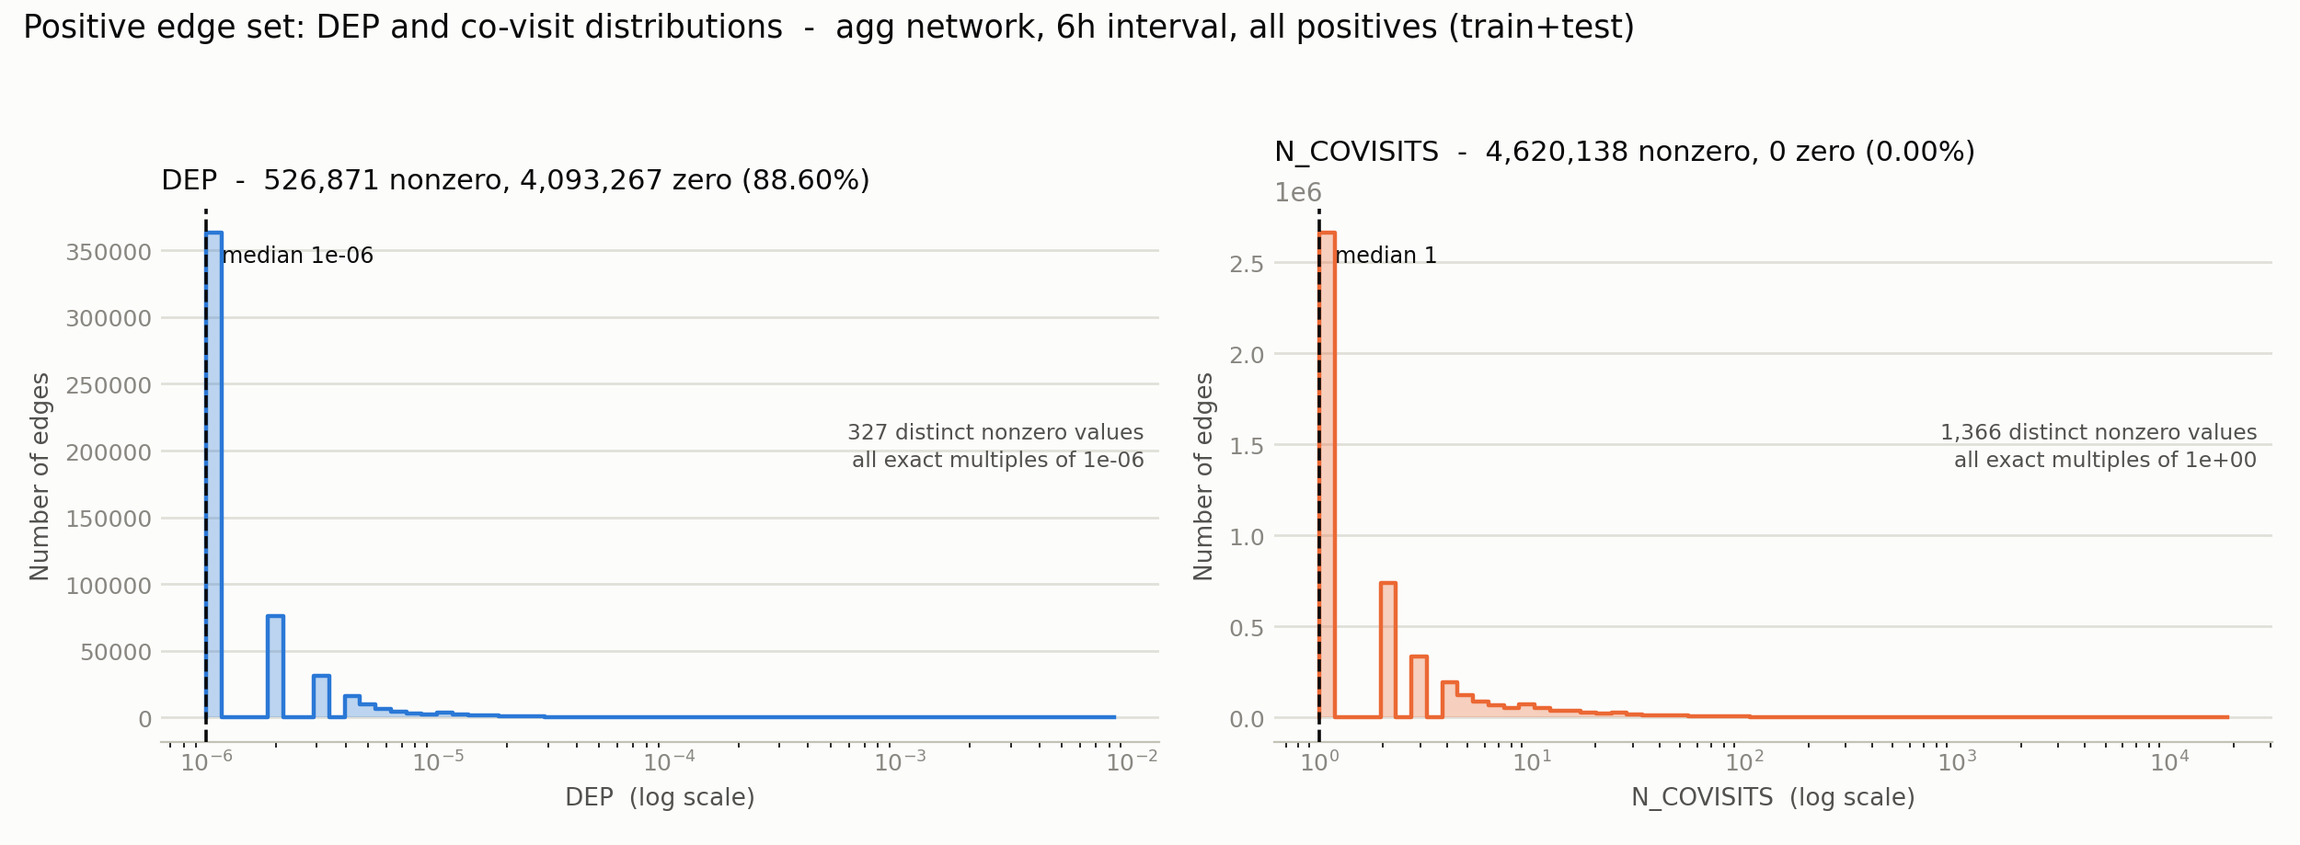
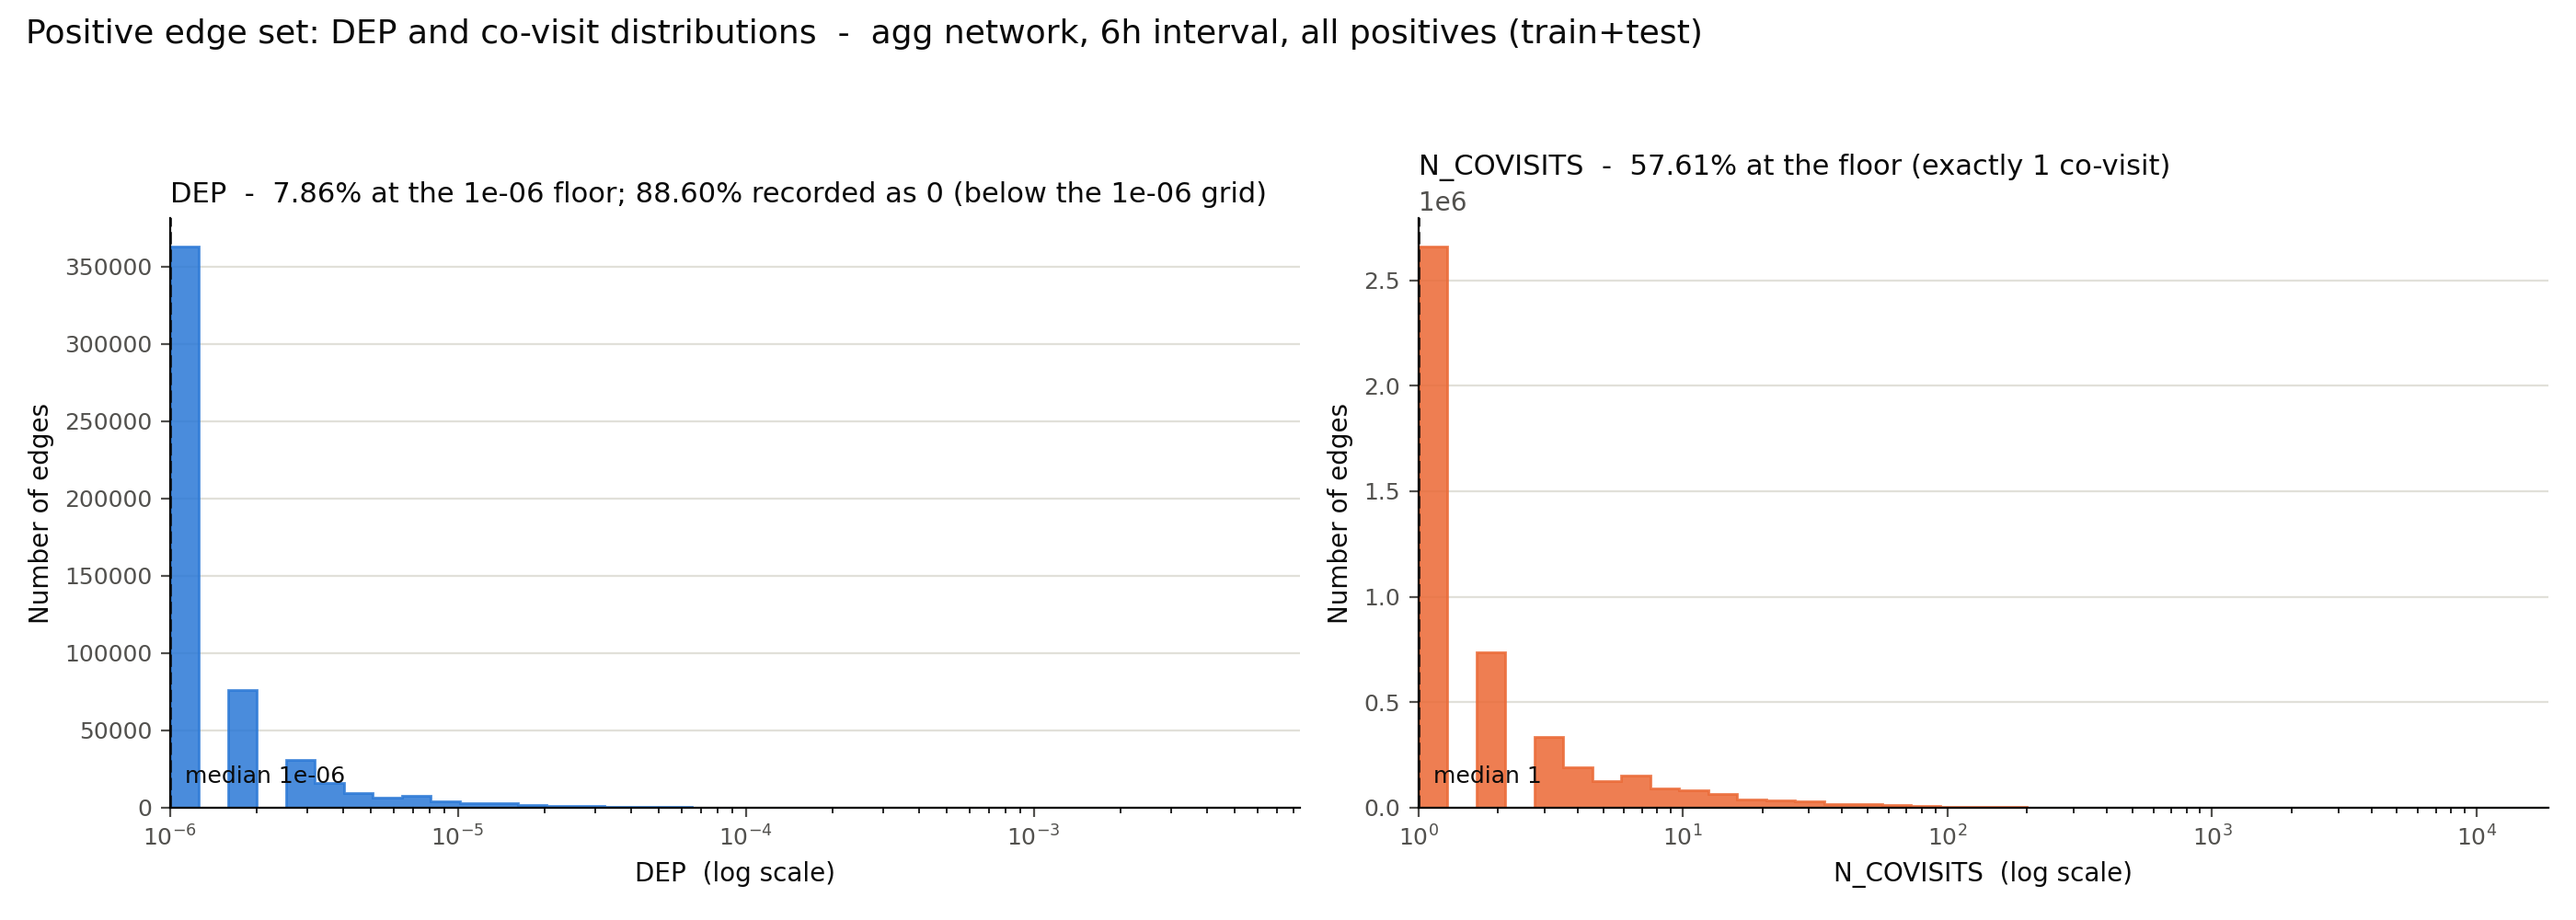
commit before presentation

Changed region(s): [[0.0, 0.1523, 0.9984, 0.975], [0.0, 0.0, 0.7176, 0.0609]]

diff --git a/pipeline.py b/pipeline.py
@@ -40,7 +40,8 @@ def _node_codes(cols):
     out = []
     for c in cols:
         if hasattr(c, 'cat'):
-            out.append(nodes.get_indexer(c.cat.categories)[c.cat.codes.to_numpy()])
+            out.append(nodes.get_indexer(c.cat.categories)
+                       [c.cat.codes.to_numpy()])
         else:
             out.append(nodes.get_indexer(c))
     return out, len(nodes)
@@ -1143,33 +1144,9 @@ def run_pipeline(trainfile, train_edges, train_non_edges, test_edges, test_non_e
     # ===== Train =====
 
     # add constant and fit model
-    # check_rank=False: Logit's default rank check runs a full QR decomposition
-    # of the whole exog matrix as a float64 copy before fitting even starts --
-    # at this network's scale that's an 11+ GiB allocation on top of X_train
-    # already in memory, which is what was actually behind both the MemoryError
-    # and the multi-hour stalls seen earlier (the QR call runs regardless of
-    # solver). Skipping it doesn't change the fit, only a pre-flight
-    # collinearity diagnostic.
-    # method='lbfgs': default Newton-Raphson recomputes the full p x p Hessian
-    # over every row each iteration (O(n*p^2)); at this network's scale
-    # (millions of rows) that's much more expensive than L-BFGS's gradient-only
-    # (O(n*p)) iterations. Same MLE either way.
     X_train = sm.add_constant(X_train)
     exog_names = ['const'] + feature_names
-    # statsmodels does exog = np.asarray(exog, dtype=float) during Logit's
-    # __init__ regardless of check_rank. Passing a DataFrame here -- even one
-    # already fully float64 -- still triggers a full-size copy, because
-    # add_constant's column insertion leaves the DataFrame internally split
-    # into 2 separate memory blocks (the inserted 'const' column + the
-    # original data), so there's no single contiguous buffer to hand back
-    # as-is; converting a multi-block DataFrame to an array is necessarily a
-    # copy (confirmed via a microbenchmark: DataFrame input always copies,
-    # ~8 GiB at this network's scale, regardless of matching dtype -- that's
-    # what exhausted memory and crashed the kernel outright). Consolidating to
-    # a plain ndarray ourselves first and passing *that* (confirmed via the
-    # same microbenchmark to be a true zero-copy view inside Logit) means only
-    # one float64 copy ever exists instead of two. Column names are restored
-    # on the model afterward so downstream summary tables are unaffected.
+
     X_train = X_train.to_numpy(dtype=np.float64)
     _log_mem(
         "after add_constant + consolidating to ndarray, right before Logit(...) construction")
